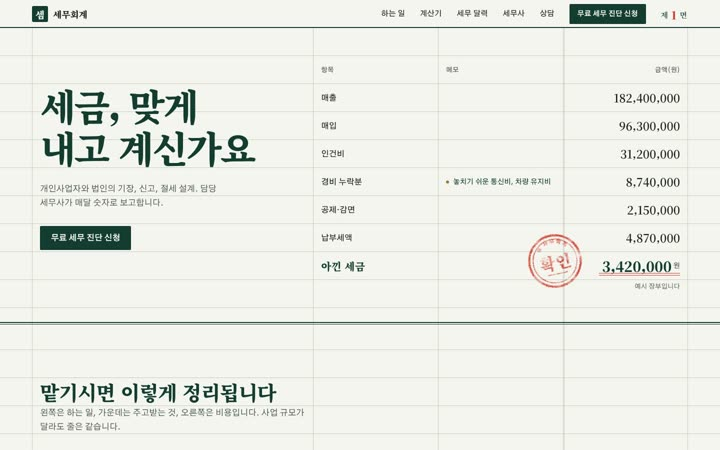
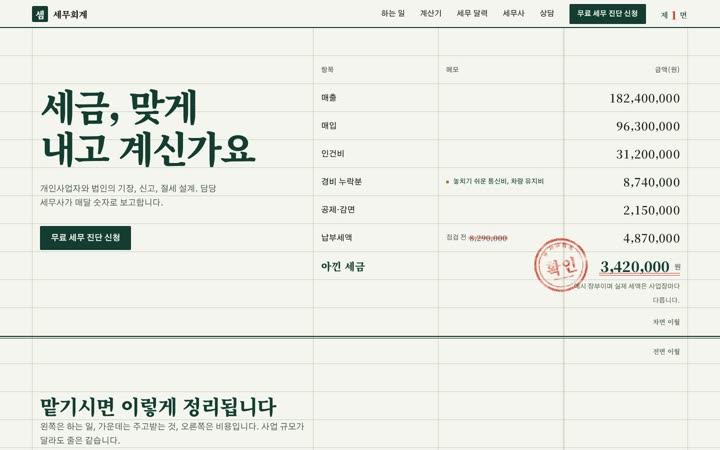
Apply the QA reviews to the perfume and tax office mockups
틈 TEUM's bottle now reads as clear glass holding coloured liquid, with a
readable 틈 behind it on phones and no badge collisions on short screens.
셈 세무회계 uses full width on phones, fixed-width digits everywhere, row-true
ledger text, a calculator that no longer promises savings and Korean unit
input such as 2억. Both thumbnails are regenerated.

Claude-Session: https://claude.ai/code/session_017mMASASYEBphP7v7q9Q3YJ

diff --git a/studio/index.html b/studio/index.html
@@ -100,7 +100,7 @@
                 <span class="poster__bar"><i class="poster__logo"></i><span class="poster__links"><i></i><i></i><i></i></span><i class="poster__pill"></i></span>
                 <span class="poster__center"><span class="poster__name">해온 시스템즈</span><span class="poster__kind">AI 스마트 항만·공간</span><i class="poster__cta"></i></span>
               </span>
-                <img class="thumb__img" src="assets/thumbs/haeon-systems.jpg" width="1440" height="900" alt="" fetchpriority="high" decoding="async" data-stage-img>
+                <picture><source media="(max-width: 767px)" srcset="assets/thumbs/haeon-systems-720.jpg"><img class="thumb__img" src="assets/thumbs/haeon-systems.jpg" srcset="assets/thumbs/haeon-systems-720.jpg 720w, assets/thumbs/haeon-systems.jpg 1440w" sizes="min(1240px, calc(100vw - 96px))" width="1440" height="900" alt="" fetchpriority="high" decoding="async" data-stage-img></picture>
               </span>
             </a>
           </div>
@@ -148,7 +148,7 @@
                   <span class="poster__bar"><i class="poster__logo"></i><span class="poster__links"><i></i><i></i><i></i></span><i class="poster__pill"></i></span>
                   <span class="poster__center"><span class="poster__name">해온 시스템즈</span><span class="poster__kind">AI 스마트 항만·공간</span><i class="poster__cta"></i></span>
                 </span>
-                <img class="thumb__img" src="assets/thumbs/haeon-systems.jpg" width="1440" height="900" loading="lazy" decoding="async" alt="해온 시스템즈 컨셉 시안 첫 화면">
+                <picture><source media="(max-width: 767px)" srcset="assets/thumbs/haeon-systems-720.jpg"><img class="thumb__img" src="assets/thumbs/haeon-systems.jpg" srcset="assets/thumbs/haeon-systems-720.jpg 720w, assets/thumbs/haeon-systems.jpg 1440w" sizes="(min-width: 1024px) 400px, 46vw" width="1440" height="900" loading="lazy" decoding="async" alt="해온 시스템즈 컨셉 시안 첫 화면"></picture>
               </span>
               <span class="corners" aria-hidden="true"><i></i><i></i><i></i><i></i></span>
             </a>
@@ -168,7 +168,7 @@
                   <span class="poster__bar"><i class="poster__logo"></i><span class="poster__links"><i></i><i></i><i></i></span><i class="poster__pill"></i></span>
                   <span class="poster__center"><span class="poster__name">이음 건축사사무소</span><span class="poster__kind">건축·인테리어</span><i class="poster__cta"></i></span>
                 </span>
-                <img class="thumb__img" src="assets/thumbs/ieum-architects.jpg" width="1440" height="900" loading="lazy" decoding="async" alt="이음 건축사사무소 컨셉 시안 첫 화면">
+                <picture><source media="(max-width: 767px)" srcset="assets/thumbs/ieum-architects-720.jpg"><img class="thumb__img" src="assets/thumbs/ieum-architects.jpg" srcset="assets/thumbs/ieum-architects-720.jpg 720w, assets/thumbs/ieum-architects.jpg 1440w" sizes="(min-width: 1024px) 400px, 46vw" width="1440" height="900" loading="lazy" decoding="async" alt="이음 건축사사무소 컨셉 시안 첫 화면"></picture>
               </span>
               <span class="corners" aria-hidden="true"><i></i><i></i><i></i><i></i></span>
             </a>
@@ -188,7 +188,7 @@
                   <span class="poster__bar"><i class="poster__logo"></i><span class="poster__links"><i></i><i></i><i></i></span><i class="poster__pill"></i></span>
                   <span class="poster__center"><span class="poster__name">온기 베이커리</span><span class="poster__kind">베이커리 카페</span><i class="poster__cta"></i></span>
                 </span>
-                <img class="thumb__img" src="assets/thumbs/ongi-bakery.jpg" width="1440" height="900" loading="lazy" decoding="async" alt="온기 베이커리 컨셉 시안 첫 화면">
+                <picture><source media="(max-width: 767px)" srcset="assets/thumbs/ongi-bakery-720.jpg"><img class="thumb__img" src="assets/thumbs/ongi-bakery.jpg" srcset="assets/thumbs/ongi-bakery-720.jpg 720w, assets/thumbs/ongi-bakery.jpg 1440w" sizes="(min-width: 1024px) 400px, 46vw" width="1440" height="900" loading="lazy" decoding="async" alt="온기 베이커리 컨셉 시안 첫 화면"></picture>
               </span>
               <span class="corners" aria-hidden="true"><i></i><i></i><i></i><i></i></span>
             </a>
@@ -208,7 +208,7 @@
                   <span class="poster__bar"><i class="poster__logo"></i><span class="poster__links"><i></i><i></i><i></i></span><i class="poster__pill"></i></span>
                   <span class="poster__center"><span class="poster__name">틈 TEUM</span><span class="poster__kind">향수 브랜드</span><i class="poster__cta"></i></span>
                 </span>
-                <img class="thumb__img" src="assets/thumbs/teum-perfume.jpg" width="1440" height="900" loading="lazy" decoding="async" alt="틈 TEUM 컨셉 시안 첫 화면">
+                <picture><source media="(max-width: 767px)" srcset="assets/thumbs/teum-perfume-720.jpg"><img class="thumb__img" src="assets/thumbs/teum-perfume.jpg" srcset="assets/thumbs/teum-perfume-720.jpg 720w, assets/thumbs/teum-perfume.jpg 1440w" sizes="(min-width: 1024px) 400px, 46vw" width="1440" height="900" loading="lazy" decoding="async" alt="틈 TEUM 컨셉 시안 첫 화면"></picture>
               </span>
               <span class="corners" aria-hidden="true"><i></i><i></i><i></i><i></i></span>
             </a>
@@ -228,7 +228,7 @@
                   <span class="poster__bar"><i class="poster__logo"></i><span class="poster__links"><i></i><i></i><i></i></span><i class="poster__pill"></i></span>
                   <span class="poster__center"><span class="poster__name">결 피부과의원</span><span class="poster__kind">피부과</span><i class="poster__cta"></i></span>
                 </span>
-                <img class="thumb__img" src="assets/thumbs/gyeol-clinic.jpg" width="1440" height="900" loading="lazy" decoding="async" alt="결 피부과의원 컨셉 시안 첫 화면">
+                <picture><source media="(max-width: 767px)" srcset="assets/thumbs/gyeol-clinic-720.jpg"><img class="thumb__img" src="assets/thumbs/gyeol-clinic.jpg" srcset="assets/thumbs/gyeol-clinic-720.jpg 720w, assets/thumbs/gyeol-clinic.jpg 1440w" sizes="(min-width: 1024px) 400px, 46vw" width="1440" height="900" loading="lazy" decoding="async" alt="결 피부과의원 컨셉 시안 첫 화면"></picture>
               </span>
               <span class="corners" aria-hidden="true"><i></i><i></i><i></i><i></i></span>
             </a>
@@ -248,7 +248,7 @@
                   <span class="poster__bar"><i class="poster__logo"></i><span class="poster__links"><i></i><i></i><i></i></span><i class="poster__pill"></i></span>
                   <span class="poster__center"><span class="poster__name">파도소리 뮤직 페스티벌</span><span class="poster__kind">공연·행사</span><i class="poster__cta"></i></span>
                 </span>
-                <img class="thumb__img" src="assets/thumbs/padosori-fest.jpg" width="1440" height="900" loading="lazy" decoding="async" alt="파도소리 뮤직 페스티벌 컨셉 시안 첫 화면">
+                <picture><source media="(max-width: 767px)" srcset="assets/thumbs/padosori-fest-720.jpg"><img class="thumb__img" src="assets/thumbs/padosori-fest.jpg" srcset="assets/thumbs/padosori-fest-720.jpg 720w, assets/thumbs/padosori-fest.jpg 1440w" sizes="(min-width: 1024px) 400px, 46vw" width="1440" height="900" loading="lazy" decoding="async" alt="파도소리 뮤직 페스티벌 컨셉 시안 첫 화면"></picture>
               </span>
               <span class="corners" aria-hidden="true"><i></i><i></i><i></i><i></i></span>
             </a>
@@ -268,7 +268,7 @@
                   <span class="poster__bar"><i class="poster__logo"></i><span class="poster__links"><i></i><i></i><i></i></span><i class="poster__pill"></i></span>
                   <span class="poster__center"><span class="poster__name">달무리</span><span class="poster__kind">한식 다이닝 바</span><i class="poster__cta"></i></span>
                 </span>
-                <img class="thumb__img" src="assets/thumbs/dalmuri.jpg" width="1440" height="900" loading="lazy" decoding="async" alt="달무리 컨셉 시안 첫 화면">
+                <picture><source media="(max-width: 767px)" srcset="assets/thumbs/dalmuri-720.jpg"><img class="thumb__img" src="assets/thumbs/dalmuri.jpg" srcset="assets/thumbs/dalmuri-720.jpg 720w, assets/thumbs/dalmuri.jpg 1440w" sizes="(min-width: 1024px) 400px, 46vw" width="1440" height="900" loading="lazy" decoding="async" alt="달무리 컨셉 시안 첫 화면"></picture>
               </span>
               <span class="corners" aria-hidden="true"><i></i><i></i><i></i><i></i></span>
             </a>
@@ -288,7 +288,7 @@
                   <span class="poster__bar"><i class="poster__logo"></i><span class="poster__links"><i></i><i></i><i></i></span><i class="poster__pill"></i></span>
                   <span class="poster__center"><span class="poster__name">딱정산</span><span class="poster__kind">스타트업 SaaS</span><i class="poster__cta"></i></span>
                 </span>
-                <img class="thumb__img" src="assets/thumbs/ddak-saas.jpg" width="1440" height="900" loading="lazy" decoding="async" alt="딱정산 컨셉 시안 첫 화면">
+                <picture><source media="(max-width: 767px)" srcset="assets/thumbs/ddak-saas-720.jpg"><img class="thumb__img" src="assets/thumbs/ddak-saas.jpg" srcset="assets/thumbs/ddak-saas-720.jpg 720w, assets/thumbs/ddak-saas.jpg 1440w" sizes="(min-width: 1024px) 400px, 46vw" width="1440" height="900" loading="lazy" decoding="async" alt="딱정산 컨셉 시안 첫 화면"></picture>
               </span>
               <span class="corners" aria-hidden="true"><i></i><i></i><i></i><i></i></span>
             </a>
@@ -308,7 +308,7 @@
                   <span class="poster__bar"><i class="poster__logo"></i><span class="poster__links"><i></i><i></i><i></i></span><i class="poster__pill"></i></span>
                   <span class="poster__center"><span class="poster__name">살롱 미루</span><span class="poster__kind">헤어살롱</span><i class="poster__cta"></i></span>
                 </span>
-                <img class="thumb__img" src="assets/thumbs/salon-miru.jpg" width="1440" height="900" loading="lazy" decoding="async" alt="살롱 미루 컨셉 시안 첫 화면">
+                <picture><source media="(max-width: 767px)" srcset="assets/thumbs/salon-miru-720.jpg"><img class="thumb__img" src="assets/thumbs/salon-miru.jpg" srcset="assets/thumbs/salon-miru-720.jpg 720w, assets/thumbs/salon-miru.jpg 1440w" sizes="(min-width: 1024px) 400px, 46vw" width="1440" height="900" loading="lazy" decoding="async" alt="살롱 미루 컨셉 시안 첫 화면"></picture>
               </span>
               <span class="corners" aria-hidden="true"><i></i><i></i><i></i><i></i></span>
             </a>
@@ -328,7 +328,7 @@
                   <span class="poster__bar"><i class="poster__logo"></i><span class="poster__links"><i></i><i></i><i></i></span><i class="poster__pill"></i></span>
                   <span class="poster__center"><span class="poster__name">꽃집 사월</span><span class="poster__kind">플라워숍</span><i class="poster__cta"></i></span>
                 </span>
-                <img class="thumb__img" src="assets/thumbs/sawol-flower.jpg" width="1440" height="900" loading="lazy" decoding="async" alt="꽃집 사월 컨셉 시안 첫 화면">
+                <picture><source media="(max-width: 767px)" srcset="assets/thumbs/sawol-flower-720.jpg"><img class="thumb__img" src="assets/thumbs/sawol-flower.jpg" srcset="assets/thumbs/sawol-flower-720.jpg 720w, assets/thumbs/sawol-flower.jpg 1440w" sizes="(min-width: 1024px) 400px, 46vw" width="1440" height="900" loading="lazy" decoding="async" alt="꽃집 사월 컨셉 시안 첫 화면"></picture>
               </span>
               <span class="corners" aria-hidden="true"><i></i><i></i><i></i><i></i></span>
             </a>
@@ -348,7 +348,7 @@
                   <span class="poster__bar"><i class="poster__logo"></i><span class="poster__links"><i></i><i></i><i></i></span><i class="poster__pill"></i></span>
                   <span class="poster__center"><span class="poster__name">셈 세무회계</span><span class="poster__kind">세무·회계</span><i class="poster__cta"></i></span>
                 </span>
-                <img class="thumb__img" src="assets/thumbs/sem-tax.jpg" width="1440" height="900" loading="lazy" decoding="async" alt="셈 세무회계 컨셉 시안 첫 화면">
+                <picture><source media="(max-width: 767px)" srcset="assets/thumbs/sem-tax-720.jpg"><img class="thumb__img" src="assets/thumbs/sem-tax.jpg" srcset="assets/thumbs/sem-tax-720.jpg 720w, assets/thumbs/sem-tax.jpg 1440w" sizes="(min-width: 1024px) 400px, 46vw" width="1440" height="900" loading="lazy" decoding="async" alt="셈 세무회계 컨셉 시안 첫 화면"></picture>
               </span>
               <span class="corners" aria-hidden="true"><i></i><i></i><i></i><i></i></span>
             </a>
@@ -368,7 +368,7 @@
                   <span class="poster__bar"><i class="poster__logo"></i><span class="poster__links"><i></i><i></i><i></i></span><i class="poster__pill"></i></span>
                   <span class="poster__center"><span class="poster__name">숲멍 스테이</span><span class="poster__kind">독채 숙소</span><i class="poster__cta"></i></span>
                 </span>
-                <img class="thumb__img" src="assets/thumbs/supmeong-stay.jpg" width="1440" height="900" loading="lazy" decoding="async" alt="숲멍 스테이 컨셉 시안 첫 화면">
+                <picture><source media="(max-width: 767px)" srcset="assets/thumbs/supmeong-stay-720.jpg"><img class="thumb__img" src="assets/thumbs/supmeong-stay.jpg" srcset="assets/thumbs/supmeong-stay-720.jpg 720w, assets/thumbs/supmeong-stay.jpg 1440w" sizes="(min-width: 1024px) 400px, 46vw" width="1440" height="900" loading="lazy" decoding="async" alt="숲멍 스테이 컨셉 시안 첫 화면"></picture>
               </span>
               <span class="corners" aria-hidden="true"><i></i><i></i><i></i><i></i></span>
             </a>
@@ -388,7 +388,7 @@
                   <span class="poster__bar"><i class="poster__logo"></i><span class="poster__links"><i></i><i></i><i></i></span><i class="poster__pill"></i></span>
                   <span class="poster__center"><span class="poster__name">꼬리별 강아지 유치원</span><span class="poster__kind">반려동물</span><i class="poster__cta"></i></span>
                 </span>
-                <img class="thumb__img" src="assets/thumbs/kkoribyeol.jpg" width="1440" height="900" loading="lazy" decoding="async" alt="꼬리별 강아지 유치원 컨셉 시안 첫 화면">
+                <picture><source media="(max-width: 767px)" srcset="assets/thumbs/kkoribyeol-720.jpg"><img class="thumb__img" src="assets/thumbs/kkoribyeol.jpg" srcset="assets/thumbs/kkoribyeol-720.jpg 720w, assets/thumbs/kkoribyeol.jpg 1440w" sizes="(min-width: 1024px) 400px, 46vw" width="1440" height="900" loading="lazy" decoding="async" alt="꼬리별 강아지 유치원 컨셉 시안 첫 화면"></picture>
               </span>
               <span class="corners" aria-hidden="true"><i></i><i></i><i></i><i></i></span>
             </a>
@@ -408,7 +408,7 @@
                   <span class="poster__bar"><i class="poster__logo"></i><span class="poster__links"><i></i><i></i><i></i></span><i class="poster__pill"></i></span>
                   <span class="poster__center"><span class="poster__name">서른여섯 사진관</span><span class="poster__kind">사진관</span><i class="poster__cta"></i></span>
                 </span>
-                <img class="thumb__img" src="assets/thumbs/film36.jpg" width="1440" height="900" loading="lazy" decoding="async" alt="서른여섯 사진관 컨셉 시안 첫 화면">
+                <picture><source media="(max-width: 767px)" srcset="assets/thumbs/film36-720.jpg"><img class="thumb__img" src="assets/thumbs/film36.jpg" srcset="assets/thumbs/film36-720.jpg 720w, assets/thumbs/film36.jpg 1440w" sizes="(min-width: 1024px) 400px, 46vw" width="1440" height="900" loading="lazy" decoding="async" alt="서른여섯 사진관 컨셉 시안 첫 화면"></picture>
               </span>
               <span class="corners" aria-hidden="true"><i></i><i></i><i></i><i></i></span>
             </a>
@@ -428,7 +428,7 @@
                   <span class="poster__bar"><i class="poster__logo"></i><span class="poster__links"><i></i><i></i><i></i></span><i class="poster__pill"></i></span>
                   <span class="poster__center"><span class="poster__name">헤비클럽</span><span class="poster__kind">PT·크로스핏</span><i class="poster__cta"></i></span>
                 </span>
-                <img class="thumb__img" src="assets/thumbs/heavy-club.jpg" width="1440" height="900" loading="lazy" decoding="async" alt="헤비클럽 컨셉 시안 첫 화면">
+                <picture><source media="(max-width: 767px)" srcset="assets/thumbs/heavy-club-720.jpg"><img class="thumb__img" src="assets/thumbs/heavy-club.jpg" srcset="assets/thumbs/heavy-club-720.jpg 720w, assets/thumbs/heavy-club.jpg 1440w" sizes="(min-width: 1024px) 400px, 46vw" width="1440" height="900" loading="lazy" decoding="async" alt="헤비클럽 컨셉 시안 첫 화면"></picture>
               </span>
               <span class="corners" aria-hidden="true"><i></i><i></i><i></i><i></i></span>
             </a>
@@ -448,7 +448,7 @@
                   <span class="poster__bar"><i class="poster__logo"></i><span class="poster__links"><i></i><i></i><i></i></span><i class="poster__pill"></i></span>
                   <span class="poster__center"><span class="poster__name">밑줄 국어논술학원</span><span class="poster__kind">학원</span><i class="poster__cta"></i></span>
                 </span>
-                <img class="thumb__img" src="assets/thumbs/mitjul-academy.jpg" width="1440" height="900" loading="lazy" decoding="async" alt="밑줄 국어논술학원 컨셉 시안 첫 화면">
+                <picture><source media="(max-width: 767px)" srcset="assets/thumbs/mitjul-academy-720.jpg"><img class="thumb__img" src="assets/thumbs/mitjul-academy.jpg" srcset="assets/thumbs/mitjul-academy-720.jpg 720w, assets/thumbs/mitjul-academy.jpg 1440w" sizes="(min-width: 1024px) 400px, 46vw" width="1440" height="900" loading="lazy" decoding="async" alt="밑줄 국어논술학원 컨셉 시안 첫 화면"></picture>
               </span>
               <span class="corners" aria-hidden="true"><i></i><i></i><i></i><i></i></span>
             </a>

diff --git a/studio/assets/js/studio.js b/studio/assets/js/studio.js
@@ -253,16 +253,24 @@
         name: c.getAttribute('data-name'),
         kind: c.getAttribute('data-kind'),
         href: 'work/' + slug + '/index.html',
-        url: 'assets/thumbs/' + slug + '.jpg',
-        status: 'unknown'
+        v: {}
       };
     });
+    // Each slide keeps one record per image size: phones always take the 720px file, wider screens let the
+    // browser pick from srcset by stage width and pixel density, and the file it chose (currentSrc) is painted.
+    var STAGE_SIZES = 'min(1240px, calc(100vw - 96px))';
+    var variant = function () { return mqTablet.matches ? 'wide' : 'phone'; };
+    var rec = function (s) { var k = variant(); return s.v[k] || (s.v[k] = { status: 'unknown', src: '' }); };
+    var look = function (s) { var r = rec(s); return { slug: s.slug, name: s.name, kind: s.kind, status: r.status, url: r.src }; };
     var L = slides.length;
     if (!L) return;
     var cur = 0;
-    watchImg($('[data-stage-img]', base), function () { slides[0].status = 'broken'; }, function () {
-      slides[0].status = 'ok';
-      if (built && cur === 0) built.fronts.forEach(function (f) { paint(f, slides[0]); });
+    var baseImg = $('[data-stage-img]', base);
+    watchImg(baseImg, function () { rec(slides[0]).status = 'broken'; }, function () {
+      var r = rec(slides[0]);
+      r.status = 'ok';
+      r.src = baseImg.currentSrc || baseImg.src;
+      if (built && cur === 0) built.fronts.forEach(function (f) { paint(f, look(slides[0])); });
     });
 
     nav.hidden = false;
@@ -270,27 +278,36 @@
     // Resolves with the image status, or 'timeout' after ms. The download keeps going after a timeout,
     // and if that slide is on screen by then its poster is swapped for the real screenshot.
     function ensure(s, ms) {
-      if (s.status === 'ok' || s.status === 'broken') return Promise.resolve(s.status);
-      if (!s._ready) {
-        s._ready = new Promise(function (res) {
+      var r = rec(s);
+      if (r.status === 'ok' || r.status === 'broken') return Promise.resolve(r.status);
+      if (!r.ready) {
+        r.ready = new Promise(function (res) {
           var img = new Image();
           img.onload = function () {
             (img.decode ? img.decode() : Promise.resolve()).catch(function () {}).then(function () {
-              s.status = 'ok';
+              r.status = 'ok';
+              r.src = img.currentSrc || img.src;
               res('ok');
               arrived(s);
             });
           };
-          img.onerror = function () { s.status = 'broken'; res('broken'); };
+          img.onerror = function () { r.status = 'broken'; res('broken'); };
           img.decoding = 'async';
-          img.src = s.url;
+          var base720 = 'assets/thumbs/' + s.slug + '-720.jpg', full = 'assets/thumbs/' + s.slug + '.jpg';
+          if (variant() === 'phone') {
+            img.src = base720;
+          } else {
+            img.sizes = STAGE_SIZES;
+            img.srcset = base720 + ' 720w, ' + full + ' 1440w';
+            img.src = full;
+          }
         });
       }
-      return Promise.race([s._ready, wait(ms || 1500).then(function () { return 'timeout'; })]);
+      return Promise.race([r.ready, wait(ms || 1500).then(function () { return 'timeout'; })]);
     }
     function arrived(s) {
       if (slides[cur] !== s) return;
-      if (built) built.fronts.forEach(function (f) { paint(f, s); });
+      if (built) built.fronts.forEach(function (f) { paint(f, look(s)); });
       else showOnBase(s, true);
     }
 
@@ -347,7 +364,7 @@
         wrap.appendChild(slat);
         B.slats.push(slat); B.lifts.push(lift); B.flips.push(flip); B.fronts.push(front); B.backs.push(back);
         B.fShades.push($('.face__shade', front)); B.bShades.push($('.face__shade', back)); B.gloss.push($('.face__gloss', front));
-        paint(front, slides[cur]);
+        paint(front, look(slides[cur]));
       }
       view.appendChild(wrap);
       stage.classList.add('is-built');
@@ -365,7 +382,7 @@
     function showOnBase(s, fade) {
       var layer = document.createElement('span');
       layer.className = 'stage__fade';
-      paint(layer, s);
+      paint(layer, look(s));
       base.appendChild(layer);
       var cleanup = function () {
         $$(':scope > :not(:last-child)', base).forEach(function (n) { n.remove(); });
@@ -403,14 +420,14 @@
         return;
       }
       var B = built;
-      B.backs.forEach(function (b) { paint(b, s); });
+      B.backs.forEach(function (b) { paint(b, look(s)); });
       var st = { each: 0.045, from: pointerIndex(B.n) };
       liftPaused = true;
       resetLift(true);
       if (hl) G.to(hl, { scaleX: 0, duration: 0.3, ease: 'power2.out', overwrite: true });
       tl = G.timeline({
         onComplete: function () {
-          B.fronts.forEach(function (f) { paint(f, s); });
+          B.fronts.forEach(function (f) { paint(f, look(s)); });
           G.set(B.flips, { rotationX: 0 });
           G.set(B.fShades.concat(B.bShades), { opacity: 0 });
           cur = target;
@@ -867,7 +884,9 @@
       img.decoding = 'async';
       img.loading = 'lazy';
       img.addEventListener('error', function () { img.hidden = true; });
-      img.src = 'assets/thumbs/' + slug + '.jpg';
+      img.sizes = '192px';
+      img.srcset = 'assets/thumbs/' + slug + '-720.jpg 720w, assets/thumbs/' + slug + '.jpg 1440w';
+      img.src = 'assets/thumbs/' + slug + '-720.jpg';
       holder.appendChild(img);
     };
 

diff --git a/studio/work/teum-perfume/main.js b/studio/work/teum-perfume/main.js
@@ -394,6 +394,8 @@
     sheet.classList.add('is-open');
     outside.forEach(function (el) { el.inert = true; });
     if (TEUM.lenis) TEUM.lenis.stop();
+    var sbw = innerWidth - root.clientWidth;
+    if (sbw > 0) { document.body.style.paddingRight = sbw + 'px'; header.style.paddingRight = sbw + 'px'; }
     document.body.style.overflow = 'hidden';
     msgEl.textContent = '';
     setTimeout(function () { $('.sheet__close', sheet).focus(); }, 40);
@@ -405,6 +407,7 @@
     outside.forEach(function (el) { el.inert = false; });
     if (TEUM.lenis) TEUM.lenis.start();
     document.body.style.overflow = '';
+    document.body.style.paddingRight = ''; header.style.paddingRight = '';
     closeTm = setTimeout(function () { sheet.hidden = true; sheet.classList.remove('is-closing'); }, mqReduce.matches ? 170 : 300);
     if (opener && opener.focus) opener.focus({ preventScroll: true });
   }
